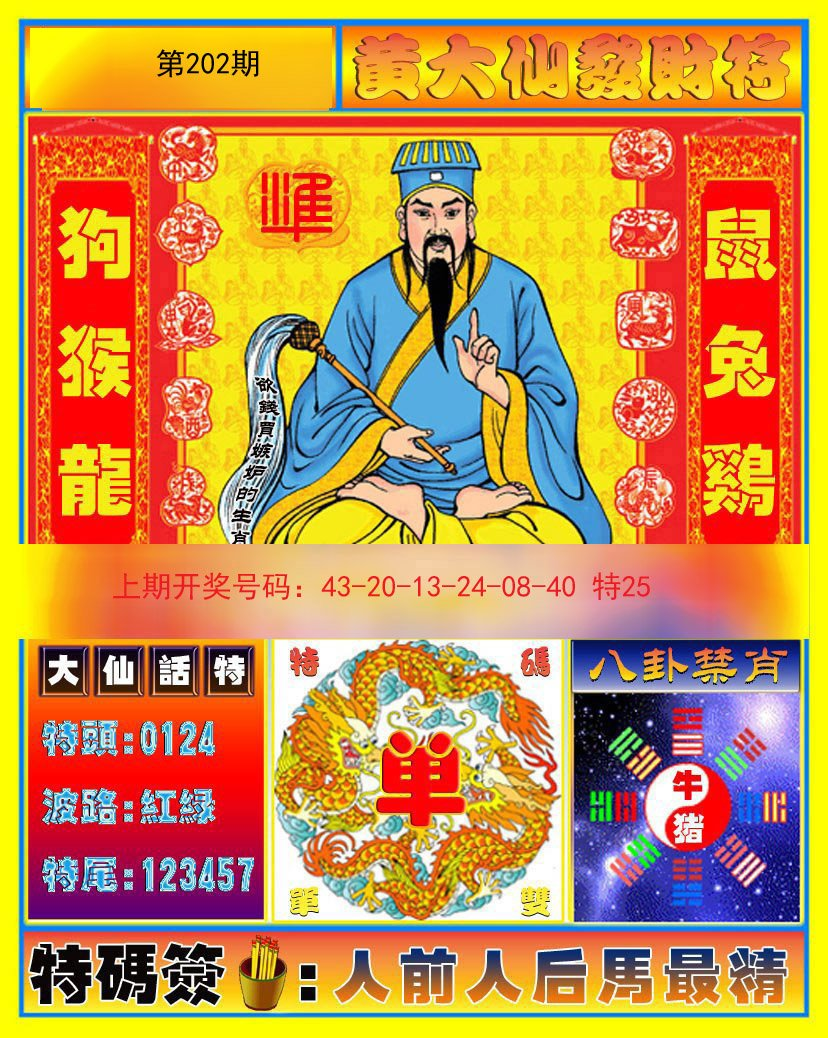
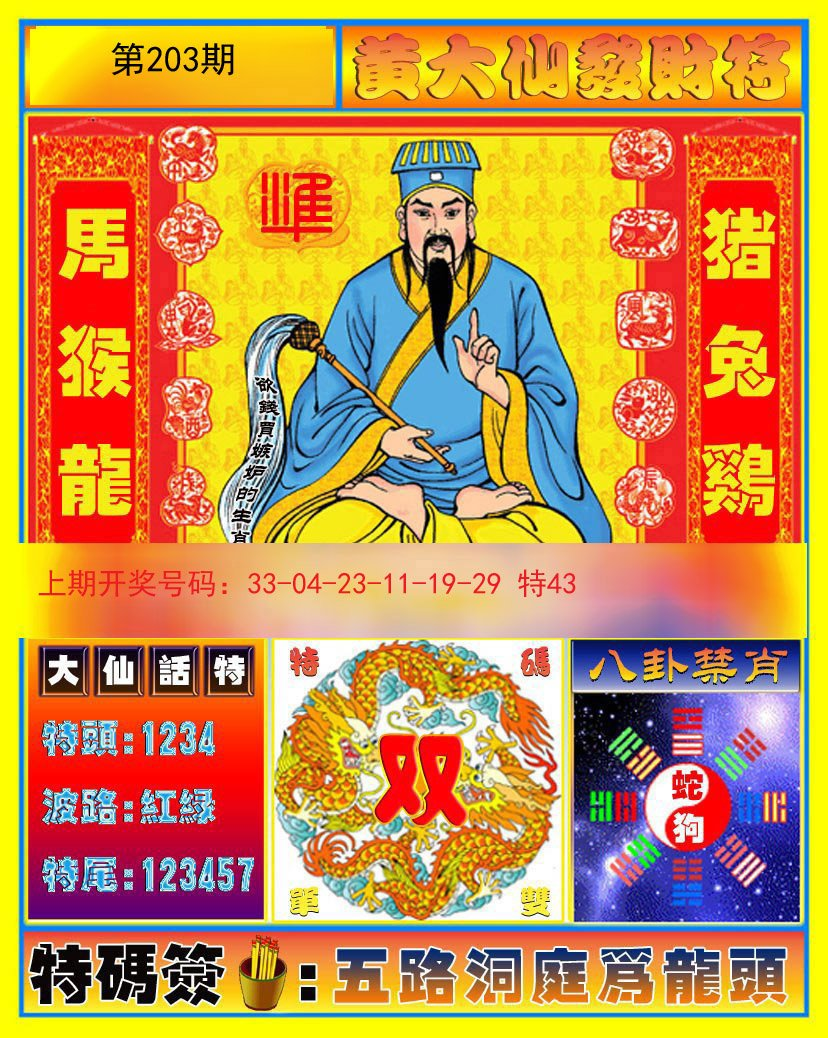
Update:  2024.07.21 01:20:39

diff --git a/Script/Src/xjw/一点通玄机.js b/Script/Src/xjw/一点通玄机.js
@@ -31,17 +31,36 @@ document.writeln("<table border=\'1\' width=\'100%\' cellpadding=\'0\' cellspaci
 
 
 document.writeln("");
+document.writeln("");
 document.writeln("						<tr>");
 document.writeln("		<td class=\'center f11 black l150\' align=\'center\'>");
 document.writeln("	");
 document.writeln("		<p align=\'left\'>");
 document.writeln("	");
-document.writeln("		<span><font size=\'4\'><strong>202期:</strong><font color=\'#008000\'><strong>【澳门玄机一点通】</strong></font><font color=\'#FF0000\'><strong>开？00</strong></font><font color=\'#008000\'><strong><br>");
+document.writeln("		<span><font size=\'4\'><strong>203期:</strong><font color=\'#008000\'><strong>【澳门玄机一点通】</strong></font><font color=\'#FF0000\'><strong>开？00</strong></font><font color=\'#008000\'><strong><br>");
+document.writeln("		</strong>");
+document.writeln("		</font><font color=\'#FF00FF\'><strong>洛阳城里见秋风，欲作家书意万重</strong></font><strong><br>");
+document.writeln("		</strong><strong><font color=\'#6600CC\'>");
+document.writeln("		解:阳解阳肖，鸡兔牛羊虎猴，秋解秋肖，猴狗鸡 ，风解风肖，虎龙兔。<br>");
+document.writeln("		</font><span class=\'style1\'>综合生肖：</span><span class=\'style2\'>鸡兔牛羊虎猴</span></strong></font></td></tr>");
+document.writeln("");
+document.writeln("");
+document.writeln("");
+
+
+
+document.writeln("");
+document.writeln("						<tr>");
+document.writeln("		<td class=\'center f11 black l150\' align=\'center\'>");
+document.writeln("	");
+document.writeln("		<p align=\'left\'>");
+document.writeln("	");
+document.writeln("		<span><font size=\'4\'><strong>202期:</strong><font color=\'#008000\'><strong>【澳门玄机一点通】</strong></font><font color=\'#FF0000\'><strong>开狗43</strong></font><font color=\'#008000\'><strong><br>");
 document.writeln("		</strong>");
 document.writeln("		</font><font color=\'#FF00FF\'><strong>惟有绿荷红菡萏，卷舒开合任天真</strong></font><strong><br>");
 document.writeln("		</strong><strong><font color=\'#6600CC\'>");
 document.writeln("		解:合解合肖，龙蛇猴鸡狗猪，天解天肖，兔马猴猪牛龙。<br>");
-document.writeln("		</font><span class=\'style1\'>综合生肖：</span><span class=\'style2\'>龙蛇猴鸡狗猪</span></strong></font></td></tr>");
+document.writeln("		</font><span class=\'style1\'>综合生肖：</span><span class=\'style2\'>龙蛇猴鸡<span style='background-color: #FFFF00\'>狗</span>猪</span></strong></font></td></tr>");
 document.writeln("");
 document.writeln("");
 document.writeln("");
